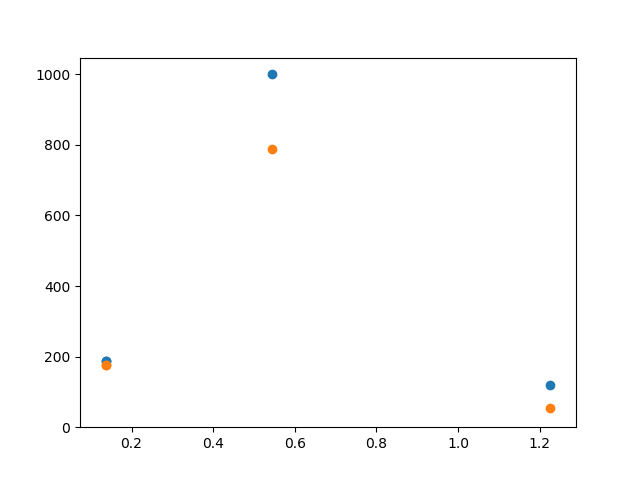
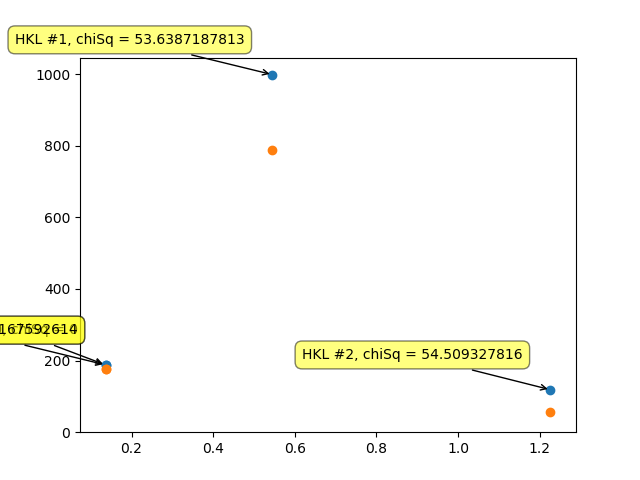
Added labels

diff --git a/hklgen/examples/sxtal/epGreedy/epGreedyBumpsTest.py b/hklgen/examples/sxtal/epGreedy/epGreedyBumpsTest.py
@@ -135,9 +135,9 @@ def test_algorithm(agent, actions, num_sims, horizon, numParameters):
         chosen_actionList = []
 	#Action index list
 	actionIndexList = []
-
 	observed_intensities = []
         rewards = np.zeros(horizon)
+	chiSqs = []
 
         model = setInitParams()
         prevChiSq = 0
@@ -188,6 +188,8 @@ def test_algorithm(agent, actions, num_sims, horizon, numParameters):
 		    agent.update(chosen_action, reward)
                 prevChiSq = chiSq
 
+	    chiSqs.append(chiSq)
+
 	    h = chosen_actionList[t].hkl[0]
 	    k = chosen_actionList[t].hkl[1]
 	    l = chosen_actionList[t].hkl[2]
@@ -215,7 +217,24 @@ def test_algorithm(agent, actions, num_sims, horizon, numParameters):
 	y = model.theory() #H.calcstructfact()
 	print(y)
 	print(x1)
-	plt.scatter(qSquared,y)
+	N = 10
+#	data = np.random.random((N, 4))
+	labels = [str("HKL #" + str(i) + ", chiSq = " + str(chiSqs[i])) for i in range(len(chiSqs))]
+
+	plt.subplots_adjust(bottom = 0.1)
+	plt.scatter(
+	    qSquared, y, marker='o', cmap=plt.get_cmap('Spectral'))
+
+	for label, q, sfs in zip(labels, qSquared, y):
+	    plt.annotate(
+        	label,
+	        xy=(q, sfs), xytext=(-20, 20),
+	        textcoords='offset points', ha='right', va='bottom',
+	        bbox=dict(boxstyle='round,pad=0.5', fc='yellow', alpha=0.5),
+	        arrowprops=dict(arrowstyle = '->', connectionstyle='arc3,rad=0'))
+
+
+#	plt.scatter(qSquared,y)
 	plt.savefig("Calc sfs2 vs Qsq " + str(simulation) + ".png") 
 	plt.scatter(qSquared,x1)
 	plt.savefig("Obs sfs2 vs Qsq " + str(simulation) + ".png")
